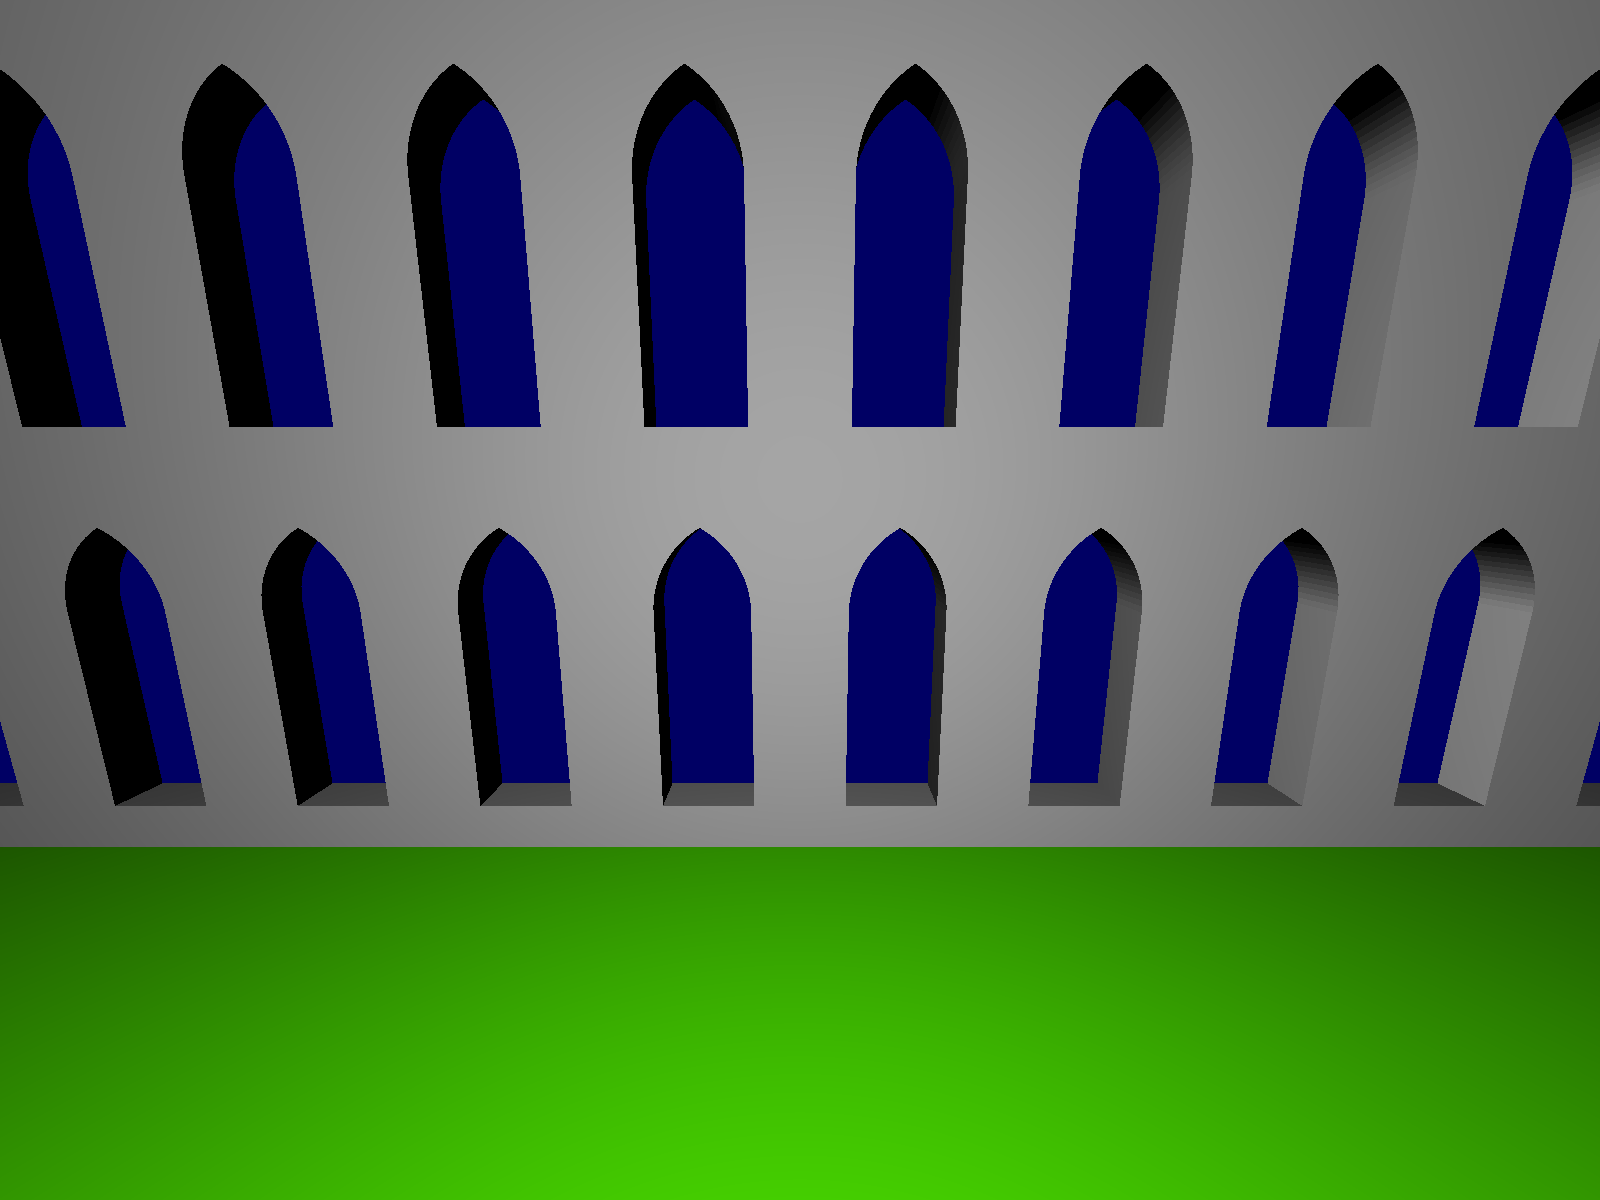
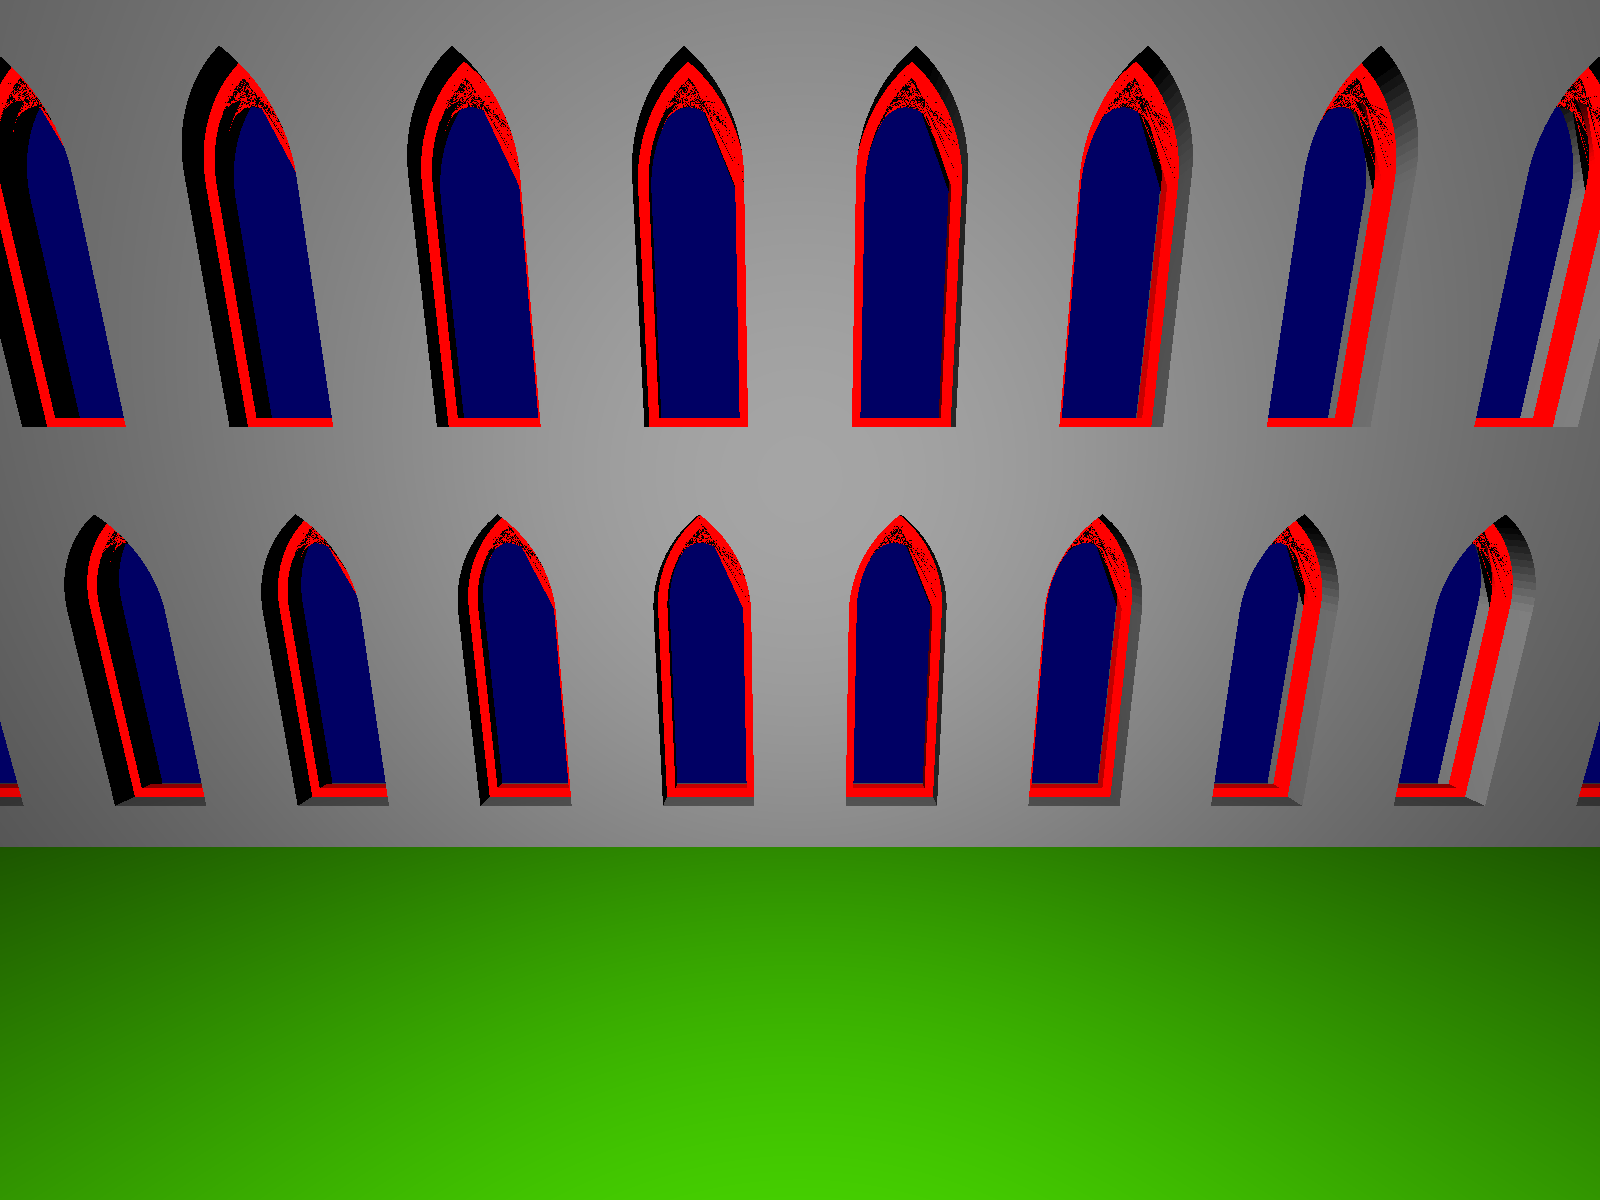
window tracery WIP

diff --git a/gothic.go b/gothic.go
@@ -11,6 +11,65 @@ import (
 // by Sven Havemann, Dieter W. Fellner
 // (http://citeseerx.ist.psu.edu/viewdoc/download?doi=10.1.1.97.8502&rep=rep1&type=pdf)
 
+// an arch consists of two lists of points:
+// - all points in the left arch (including the top point)
+// - all points in the right arch (excluding top point)
+type arch struct {
+	left  []m.Vector
+	right []m.Vector
+}
+
+// createArch returns an arch with endpoints pL, pR and midpoints to the arcs mL and mR.
+// mL and mR are parameters instead of calculated from excess here, so that this function
+// can be used for calculating offset for an arch too
+func createArch(pL, pR, mL, mR m.Vector, numPoints int) arch {
+	// points returns a list of n points on the circle with radius r
+	// around a given midpoint, starting from the right and going counterclockwise
+	// the first quarter of points form the upper right quarter of the circle
+	// and the second quarter of points form the upper left quarter
+	// the left and right arc of the arch are subsets of these points,
+	// since the circles meet earlier if the excess is greater than 0.5
+
+	// the top of the arch is given by translating the middle of line pLpR up with y
+	// where y is sqrt(pLpR * (r-(pLpR/4))), where r is the circle radius
+
+	// assumption: length of mR-pR given as equal
+	r := m.VectorFromTo(mL, pL).Length()
+	circle := gen.NewCircle(func(t float64) float64 { return r }, numPoints)
+
+	pLpR := m.VectorFromTo(pL, pR).Length()
+	middle := pL.Add(m.VectorFromTo(pL, pR).Times(0.5))
+	y := math.Sqrt(pLpR * (r - (pLpR / 4.0)))
+	top := middle.Add(m.Vector{0, y, 0})
+
+	// TODO: generate the quarter circle instead of picking points from the full one
+	cL := circle.Points(mL, ex, ey, 0)
+	upperLeftArc := []m.Vector{}
+	for i := numPoints / 2; i >= numPoints/4; i-- {
+		p := cL[i]
+		if p.X > top.X {
+			break
+		}
+		upperLeftArc = append(upperLeftArc, p)
+	}
+	upperLeftArc = append(upperLeftArc, top)
+
+	cR := circle.Points(mR, ex, ey, 0)
+	upperRightArc := []m.Vector{top}
+	for i := numPoints / 4; i >= 0; i-- {
+		p := cR[i]
+		if p.X <= top.X {
+			continue
+		}
+		upperRightArc = append(upperRightArc, p)
+	}
+
+	return arch{
+		left:  upperLeftArc,
+		right: upperRightArc,
+	}
+}
+
 type archWindowWallParams struct {
 	material m.Material
 	// four points from llhc to ulhc, counterclockwise
@@ -28,7 +87,7 @@ type archWindowWallParams struct {
 	numPoints int
 }
 
-// returns a rectangular wall with an arch window in it
+// archWindowWall returns a rectangular wall with an arch window in it
 func archWindowWall(params archWindowWallParams) m.Object {
 	// outline of front face, counterclockwise ordered
 	llhc, lrhc, urhc, ulhc := params.rectOutline.P1, params.rectOutline.P2, params.rectOutline.P3, params.rectOutline.P4
@@ -42,59 +101,15 @@ func archWindowWall(params archWindowWallParams) m.Object {
 	pL, pR := m.Vector{leftPadding, params.pLpRY, 0}, m.Vector{rightPadding, params.pLpRY, 0}
 	bpL, bpR := m.Vector{leftPadding, params.bottomPadding, 0}, m.Vector{rightPadding, params.bottomPadding, 0}
 	// start with the lower box
-	arch := []m.Vector{pR, bpR, bpL, pL}
+	wholeArch := []m.Vector{pR, bpR, bpL, pL}
 
 	// then add the points on the circles of the actual arch
-	pLpR := pR.Sub(pL).Length()
-	r := params.excess * pLpR
-	circle := gen.NewCircle(func(t float64) float64 { return r }, params.numPoints)
-
 	mL := pL.Add(m.VectorFromTo(pL, pR).Times(params.excess))
 	mR := pR.Add(m.VectorFromTo(pR, pL).Times(params.excess))
 
-	// points returns a list of n points on the circle with radius r
-	// around a given midpoint, starting from the right and going counterclockwise
-	// the first quarter of points form the upper right quarter of the circle
-	// and the second quarter of points form the upper left quarter
-	// the left and right arc of the arch are subsets of these points,
-	// since the circles meet earlier if the excess is greater than 0.5
-
-	// the top of the arch is given by translating the middle of line pLpR up with y
-	// where y is sqrt(pLpR * (r-(pLpR/4))), where r is the circle radius
-
-	middle := pL.Add(m.VectorFromTo(pL, pR).Times(0.5))
-	y := math.Sqrt(pLpR * (r - (pLpR / 4.0)))
-	top := middle.Add(m.Vector{0, y, 0})
-
-	cL := circle.Points(mL, ex, ey, 0)
-	upperLeftArc := []m.Vector{}
-	for i := params.numPoints / 2; i >= params.numPoints/4; i-- {
-		p := cL[i]
-		if p.X > top.X {
-			break
-		}
-		upperLeftArc = append(upperLeftArc, p)
-		if p.X == pL.X || p.X == top.X {
-			continue
-		}
-		arch = append(arch, p)
-	}
-	arch = append(arch, top)
-	upperLeftArc = append(upperLeftArc, top)
-
-	cR := circle.Points(mR, ex, ey, 0)
-	upperRightArc := []m.Vector{top}
-	for i := params.numPoints / 4; i >= 0; i-- {
-		p := cR[i]
-		if p.X <= top.X {
-			continue
-		}
-		upperRightArc = append(upperRightArc, p)
-		if p.X == pR.X {
-			continue
-		}
-		arch = append(arch, p)
-	}
+	arch := createArch(pL, pR, mL, mR, params.numPoints)
+	wholeArch = append(wholeArch, arch.left...)
+	wholeArch = append(wholeArch, arch.right...)
 
 	// triangles of front face
 	front := []m.Triangle{}
@@ -108,7 +123,7 @@ func archWindowWall(params archWindowWallParams) m.Object {
 	// triangles to arch radiating from upper left/right hand corners
 	topMidpoint := ulhc.Add(m.VectorFromTo(ulhc, urhc).Times(0.5))
 
-	lPoints := append([]m.Vector{{minX, params.pLpRY, 0}}, upperLeftArc...)
+	lPoints := append([]m.Vector{{minX, params.pLpRY, 0}}, arch.left...)
 	lPoints = append(lPoints, topMidpoint)
 	for i, p1 := range lPoints[:len(lPoints)-1] {
 		p2 := lPoints[i+1]
@@ -116,7 +131,7 @@ func archWindowWall(params archWindowWallParams) m.Object {
 		front = append(front, t)
 	}
 
-	rPoints := append([]m.Vector{topMidpoint}, upperRightArc...)
+	rPoints := append([]m.Vector{topMidpoint}, arch.right...)
 	rPoints = append(rPoints, m.Vector{maxX, params.pLpRY, 0})
 	for i, p1 := range rPoints[:len(rPoints)-1] {
 		p2 := rPoints[i+1]
@@ -127,7 +142,7 @@ func archWindowWall(params archWindowWallParams) m.Object {
 	ef := gen.ExtrusionFace{
 		Front:    front,
 		Outer:    [][]m.Vector{rect},
-		Inner:    [][]m.Vector{arch},
+		Inner:    [][]m.Vector{wholeArch},
 		Material: params.material,
 	}
 	return gen.Extrude(ef, m.Vector{0, 0, params.depth})
@@ -147,15 +162,53 @@ type archWindowTraceryParams struct {
 	material m.Material
 	// ratio r / distance(pL, pR), excess >= 0.5
 	excess float64
+	// width of tracery
+	offset float64
 	// depth of extrusion
 	depth float64
-	// height of upper segment endpoints pL and pR
-	pLpRY float64
+	// pL and pR, left and right endpoints of the arch
+	pL m.Vector
+	pR m.Vector
+	// bpL and bpR, left and right bottom points of the window
+	bpL m.Vector
+	bpR m.Vector
 	// number of points on a full circle
 	numPoints int
 }
 
-// TODO: returns window tracery object
+// archWindowTracery returns window tracery object
 func archWindowTracery(params archWindowTraceryParams) m.Object {
-	return m.Triangle{}
+	mL := params.pL.Add(m.VectorFromTo(params.pL, params.pR).Times(params.excess))
+	mR := params.pR.Add(m.VectorFromTo(params.pR, params.pL).Times(params.excess))
+
+	outerArch := createArch(params.pL, params.pR, mL, mR, params.numPoints)
+	outerFrame := append([]m.Vector{params.pR, params.bpR, params.bpL, params.pL}, outerArch.left...)
+	outerFrame = append(outerFrame, outerArch.right...)
+
+	ipL := m.Vector{params.pL.X + params.offset, params.pL.Y, params.pL.Z}
+	ipR := m.Vector{params.pR.X - params.offset, params.pR.Y, params.pR.Z}
+	// TODO: note this *2 is so that innerarch has at least as many points as outerarch
+	// otherwise, gen.JoinPoints will throw an indexoutofbounds exception
+	// to solve this issue, fix the above TODO in createArch()
+	innerArch := createArch(ipL, ipR, mL, mR, params.numPoints*2)
+
+	ibpL := m.Vector{params.bpL.X + params.offset, params.bpL.Y + params.offset, params.bpL.Z}
+	ibpR := m.Vector{params.bpR.X - params.offset, params.bpR.Y + params.offset, params.bpR.Z}
+	innerFrame := append([]m.Vector{ipR, ibpR, ibpL, ipL}, innerArch.left...)
+	innerFrame = append(innerFrame, innerArch.right...)
+
+	triangles := gen.JoinPoints([][]m.Vector{outerFrame, innerFrame}, params.material)
+	front := make([]m.Triangle, len(triangles))
+	for i, o := range triangles {
+		t := o.(m.Triangle)
+		front[i] = t
+	}
+
+	ef := gen.ExtrusionFace{
+		Front:    front,
+		Outer:    [][]m.Vector{outerFrame},
+		Inner:    [][]m.Vector{innerFrame},
+		Material: params.material,
+	}
+	return gen.Extrude(ef, m.Vector{0, 0, params.depth})
 }

diff --git a/main.go b/main.go
@@ -29,7 +29,7 @@ func main() {
 	m.SetBackgroundColor(m.NewColor(0, 0, 100))
 
 	mat := &m.DiffuseMaterial{m.NewColor(100, 100, 100)}
-	params := archWindowWallParams{
+	awwparams := archWindowWallParams{
 		rectOutline:   m.NewQuadrilateral(m.Vector{0, 0, 0}, m.Vector{1, 0, 0}, m.Vector{1, 2, 0}, m.Vector{0, 2, 0}, mat),
 		excess:        1.25,
 		xPadding:      0.25,
@@ -39,12 +39,34 @@ func main() {
 		numPoints:     100,
 		material:      mat,
 	}
-	w := archWindowWall(params)
+	w := archWindowWall(awwparams)
 
 	for y := 0; y < 3; y += 2 {
 		for x := -5; x < 10; x++ {
 			translation := m.Translate(m.Vector{float64(x), float64(y), 3})
 			shared := m.NewSharedObject(w, translation)
+			scene.Add(shared)
+		}
+	}
+
+	mat = &m.DiffuseMaterial{m.NewColor(255, 0, 0)}
+	awtparams := archWindowTraceryParams{
+		material:  mat,
+		excess:    1.25,
+		offset:    0.05,
+		depth:     0.05,
+		pL:        m.Vector{0.25, 4.0 / 3.0, 0},
+		pR:        m.Vector{0.75, 4.0 / 3.0, 0},
+		bpL:       m.Vector{0.25, 0.25, 0},
+		bpR:       m.Vector{0.75, 0.25, 0},
+		numPoints: 100,
+	}
+	t := archWindowTracery(awtparams)
+
+	for y := 0; y < 3; y += 2 {
+		for x := -5; x < 10; x++ {
+			translation := m.Translate(m.Vector{float64(x), float64(y), 3.10})
+			shared := m.NewSharedObject(t, translation)
 			scene.Add(shared)
 		}
 	}
